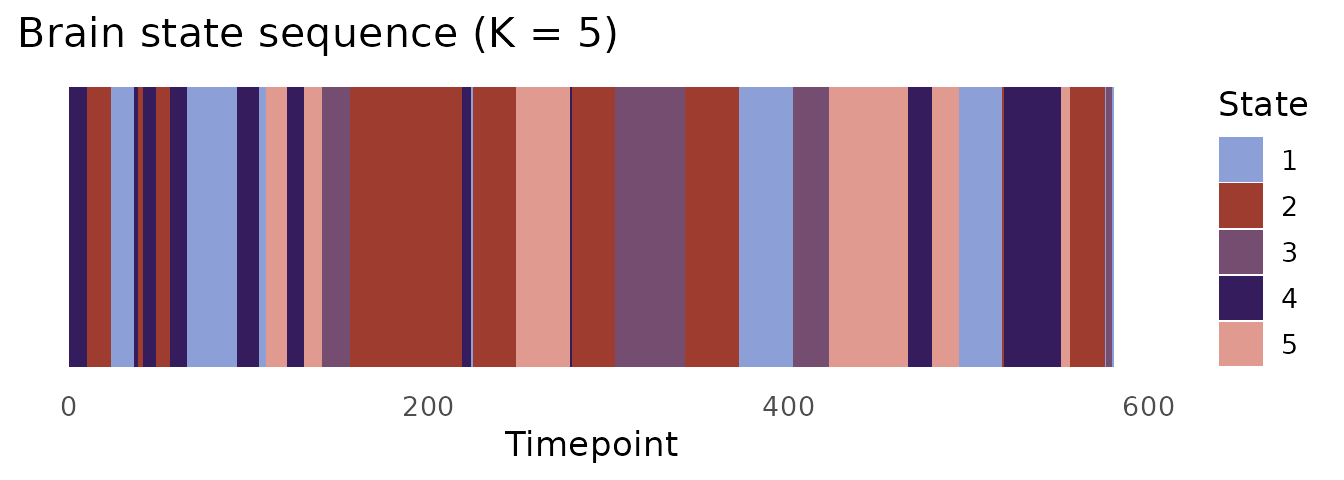
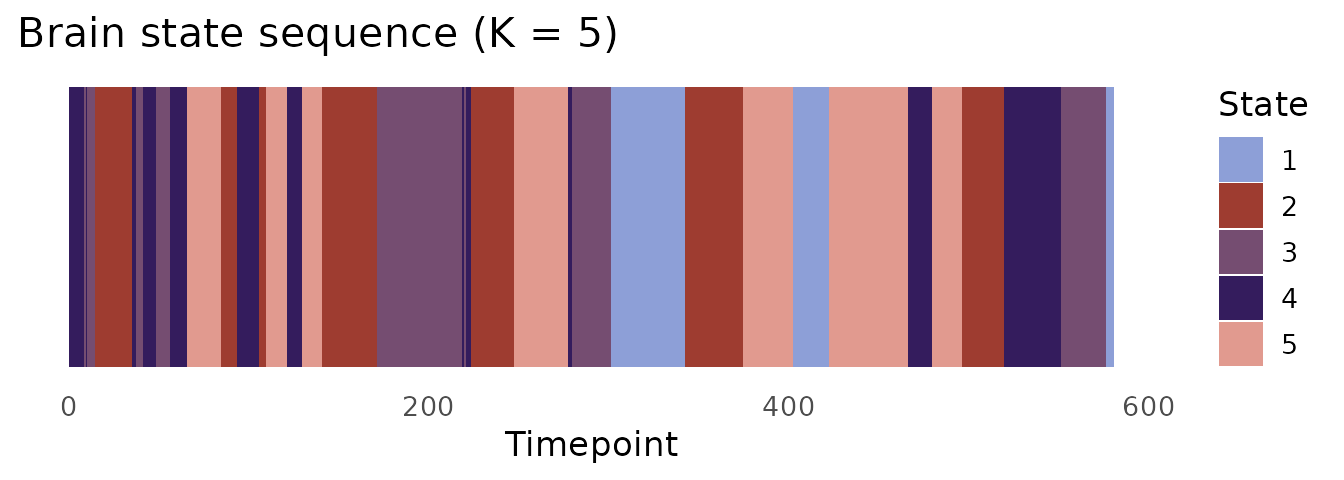
Deploying to gh-pages from @ circadia-bio/dynR@5a6e323ed052da99dbb9ac9269820ef5321b185b 🚀

diff --git a/articles/phase-based-fc.html b/articles/phase-based-fc.html
@@ -109,7 +109,7 @@
 
     <a class="navbar-brand me-2" href="../index.html">dynR</a>
 
-    <small class="nav-text text-muted me-auto" data-bs-toggle="tooltip" data-bs-placement="bottom" title="">0.1.0</small>
+    <small class="nav-text text-muted me-auto" data-bs-toggle="tooltip" data-bs-placement="bottom" title="">0.1.1</small>
 
 
     <button class="navbar-toggler" type="button" data-bs-toggle="collapse" data-bs-target="#navbar" aria-controls="navbar" aria-expanded="false" aria-label="Toggle navigation">
@@ -150,7 +150,7 @@
       <img src="../logo.svg" class="logo" alt=""><h1>Phase-based dynamic FC: Hilbert transform, LEiDA, and Kuramoto</h1>
             
       
-      <small class="dont-index">Source: <a href="https://github.com/circadia-bio/dynR/blob/v0.1.0/vignettes/phase-based-fc.Rmd" class="external-link"><code>vignettes/phase-based-fc.Rmd</code></a></small>
+      <small class="dont-index">Source: <a href="https://github.com/circadia-bio/dynR/blob/main/vignettes/phase-based-fc.Rmd" class="external-link"><code>vignettes/phase-based-fc.Rmd</code></a></small>
       <div class="d-none name"><code>phase-based-fc.Rmd</code></div>
     </div>
 
@@ -245,7 +245,7 @@ argument gives the instantaneous phase angle at every timepoint.</p>
 <span><span class="fu"><a href="https://rdrr.io/r/base/dim.html" class="external-link">dim</a></span><span class="op">(</span><span class="va">phases</span><span class="op">)</span>    <span class="co"># [200 × 600]</span></span>
 <span><span class="co">#&gt; [1] 200 600</span></span>
 <span><span class="fu"><a href="https://rdrr.io/r/base/range.html" class="external-link">range</a></span><span class="op">(</span><span class="va">phases</span><span class="op">)</span>  <span class="co"># in [-pi, pi]</span></span>
-<span><span class="co">#&gt; [1] -3.141541  3.141524</span></span></code></pre></div>
+<span><span class="co">#&gt; [1] -3.141479  3.141498</span></span></code></pre></div>
 <p>Each row is a parcel; each column is a timepoint. Values are in
 radians.</p>
 <hr>
@@ -318,7 +318,7 @@ and keeping the best solution is essential.</p>
 <span><span class="fu"><a href="https://rdrr.io/r/base/table.html" class="external-link">table</a></span><span class="op">(</span><span class="va">km</span><span class="op">$</span><span class="va">cluster</span><span class="op">)</span></span>
 <span><span class="co">#&gt; </span></span>
 <span><span class="co">#&gt;   1   2   3   4   5 </span></span>
-<span><span class="co">#&gt; 102 184  78 100 116</span></span></code></pre></div>
+<span><span class="co">#&gt;  65 144 112  98 161</span></span></code></pre></div>
 </div>
 <div class="section level3">
 <h3 id="state-sequence">State sequence<a class="anchor" aria-label="anchor" href="#state-sequence"></a>
@@ -382,9 +382,9 @@ repertoire (Lord et al., 2019).</p>
 <code class="sourceCode R"><span><span class="va">kop</span> <span class="op">&lt;-</span> <span class="fu"><a href="../reference/kuramoto.html">kuramoto</a></span><span class="op">(</span><span class="va">phases</span>, base <span class="op">=</span> <span class="fl">2</span>, n_bits <span class="op">=</span> <span class="fl">8</span><span class="op">)</span></span>
 <span></span>
 <span><span class="fu"><a href="https://rdrr.io/r/base/cat.html" class="external-link">cat</a></span><span class="op">(</span><span class="st">"Metastability:"</span>, <span class="fu"><a href="https://rdrr.io/r/base/Round.html" class="external-link">round</a></span><span class="op">(</span><span class="va">kop</span><span class="op">$</span><span class="va">metastability</span>, <span class="fl">4</span><span class="op">)</span>, <span class="st">"\n"</span><span class="op">)</span></span>
-<span><span class="co">#&gt; Metastability: 0.0787</span></span>
+<span><span class="co">#&gt; Metastability: 0.0788</span></span>
 <span><span class="fu"><a href="https://rdrr.io/r/base/cat.html" class="external-link">cat</a></span><span class="op">(</span><span class="st">"Entropy (bits):"</span>, <span class="fu"><a href="https://rdrr.io/r/base/Round.html" class="external-link">round</a></span><span class="op">(</span><span class="va">kop</span><span class="op">$</span><span class="va">entropy</span>, <span class="fl">4</span><span class="op">)</span>, <span class="st">"\n"</span><span class="op">)</span></span>
-<span><span class="co">#&gt; Entropy (bits): 6.1409</span></span></code></pre></div>
+<span><span class="co">#&gt; Entropy (bits): 6.1722</span></span></code></pre></div>
 <div class="sourceCode" id="cb8"><pre class="downlit sourceCode r">
 <code class="sourceCode R"><span><span class="va">df_kop</span> <span class="op">&lt;-</span> <span class="fu"><a href="https://rdrr.io/r/base/data.frame.html" class="external-link">data.frame</a></span><span class="op">(</span>t <span class="op">=</span> <span class="fu"><a href="https://rdrr.io/r/base/seq.html" class="external-link">seq_along</a></span><span class="op">(</span><span class="va">kop</span><span class="op">$</span><span class="va">synchrony</span><span class="op">)</span>, R <span class="op">=</span> <span class="va">kop</span><span class="op">$</span><span class="va">synchrony</span><span class="op">)</span></span>
 <span></span>

diff --git a/authors.html b/authors.html
@@ -88,7 +88,7 @@
 
     <a class="navbar-brand me-2" href="index.html">dynR</a>
 
-    <small class="nav-text text-muted me-auto" data-bs-toggle="tooltip" data-bs-placement="bottom" title="">0.1.0</small>
+    <small class="nav-text text-muted me-auto" data-bs-toggle="tooltip" data-bs-placement="bottom" title="">0.1.1</small>
 
 
     <button class="navbar-toggler" type="button" data-bs-toggle="collapse" data-bs-target="#navbar" aria-controls="navbar" aria-expanded="false" aria-label="Toggle navigation">
@@ -137,17 +137,17 @@
 
     <div class="section level2">
       <h2 id="citation">Citation</h2>
-      <p><small class="dont-index">Source: <a href="https://github.com/circadia-bio/dynR/blob/v0.1.0/DESCRIPTION" class="external-link"><code>DESCRIPTION</code></a></small></p>
+      <p><small class="dont-index">Source: <a href="https://github.com/circadia-bio/dynR/blob/main/DESCRIPTION" class="external-link"><code>DESCRIPTION</code></a></small></p>
 
       <p>França L, Leocadio-Miguel M, Batallé D (2026).
 <em>dynR: Dynamic Connectivity Analysis for Neurophysiological Timeseries</em>.
-R package version 0.1.0, <a href="https://dynr.circadia-lab.uk">https://dynr.circadia-lab.uk</a>.
+R package version 0.1.1, <a href="https://dynr.circadia-lab.uk">https://dynr.circadia-lab.uk</a>.
 </p>
       <pre>@Manual{,
   title = {dynR: Dynamic Connectivity Analysis for Neurophysiological Timeseries},
   author = {Lucas França and Mario Leocadio-Miguel and Dafnis Batallé},
   year = {2026},
-  note = {R package version 0.1.0},
+  note = {R package version 0.1.1},
   url = {https://dynr.circadia-lab.uk},
 }</pre>
     </div>

diff --git a/LICENSE.html b/LICENSE.html
@@ -88,7 +88,7 @@
 
     <a class="navbar-brand me-2" href="index.html">dynR</a>
 
-    <small class="nav-text text-muted me-auto" data-bs-toggle="tooltip" data-bs-placement="bottom" title="">0.1.0</small>
+    <small class="nav-text text-muted me-auto" data-bs-toggle="tooltip" data-bs-placement="bottom" title="">0.1.1</small>
 
 
     <button class="navbar-toggler" type="button" data-bs-toggle="collapse" data-bs-target="#navbar" aria-controls="navbar" aria-expanded="false" aria-label="Toggle navigation">
@@ -116,7 +116,7 @@
 <div class="row">
   <main id="main" class="col-md-9"><div class="page-header">
       <img src="logo.svg" class="logo" alt=""><h1>MIT License</h1>
-      <small class="dont-index">Source: <a href="https://github.com/circadia-bio/dynR/blob/v0.1.0/LICENSE.md" class="external-link"><code>LICENSE.md</code></a></small>
+      <small class="dont-index">Source: <a href="https://github.com/circadia-bio/dynR/blob/main/LICENSE.md" class="external-link"><code>LICENSE.md</code></a></small>
     </div>
 
 <div id="mit-license" class="section level1">

diff --git a/articles/getting-started.html b/articles/getting-started.html
@@ -109,7 +109,7 @@
 
     <a class="navbar-brand me-2" href="../index.html">dynR</a>
 
-    <small class="nav-text text-muted me-auto" data-bs-toggle="tooltip" data-bs-placement="bottom" title="">0.1.0</small>
+    <small class="nav-text text-muted me-auto" data-bs-toggle="tooltip" data-bs-placement="bottom" title="">0.1.1</small>
 
 
     <button class="navbar-toggler" type="button" data-bs-toggle="collapse" data-bs-target="#navbar" aria-controls="navbar" aria-expanded="false" aria-label="Toggle navigation">
@@ -150,7 +150,7 @@
       <img src="../logo.svg" class="logo" alt=""><h1>Getting started with dynR</h1>
             
       
-      <small class="dont-index">Source: <a href="https://github.com/circadia-bio/dynR/blob/v0.1.0/vignettes/getting-started.Rmd" class="external-link"><code>vignettes/getting-started.Rmd</code></a></small>
+      <small class="dont-index">Source: <a href="https://github.com/circadia-bio/dynR/blob/main/vignettes/getting-started.Rmd" class="external-link"><code>vignettes/getting-started.Rmd</code></a></small>
       <div class="d-none name"><code>getting-started.Rmd</code></div>
     </div>
 

diff --git a/articles/sliding-window-fc.html b/articles/sliding-window-fc.html
@@ -109,7 +109,7 @@
 
     <a class="navbar-brand me-2" href="../index.html">dynR</a>
 
-    <small class="nav-text text-muted me-auto" data-bs-toggle="tooltip" data-bs-placement="bottom" title="">0.1.0</small>
+    <small class="nav-text text-muted me-auto" data-bs-toggle="tooltip" data-bs-placement="bottom" title="">0.1.1</small>
 
 
     <button class="navbar-toggler" type="button" data-bs-toggle="collapse" data-bs-target="#navbar" aria-controls="navbar" aria-expanded="false" aria-label="Toggle navigation">
@@ -150,7 +150,7 @@
       <img src="../logo.svg" class="logo" alt=""><h1>Correlation-based dynamic FC: sliding windows and edge cofluctuations</h1>
             
       
-      <small class="dont-index">Source: <a href="https://github.com/circadia-bio/dynR/blob/v0.1.0/vignettes/sliding-window-fc.Rmd" class="external-link"><code>vignettes/sliding-window-fc.Rmd</code></a></small>
+      <small class="dont-index">Source: <a href="https://github.com/circadia-bio/dynR/blob/main/vignettes/sliding-window-fc.Rmd" class="external-link"><code>vignettes/sliding-window-fc.Rmd</code></a></small>
       <div class="d-none name"><code>sliding-window-fc.Rmd</code></div>
     </div>
 

diff --git a/news/index.html b/news/index.html
@@ -88,7 +88,7 @@
 
     <a class="navbar-brand me-2" href="../index.html">dynR</a>
 
-    <small class="nav-text text-muted me-auto" data-bs-toggle="tooltip" data-bs-placement="bottom" title="">0.1.0</small>
+    <small class="nav-text text-muted me-auto" data-bs-toggle="tooltip" data-bs-placement="bottom" title="">0.1.1</small>
 
 
     <button class="navbar-toggler" type="button" data-bs-toggle="collapse" data-bs-target="#navbar" aria-controls="navbar" aria-expanded="false" aria-label="Toggle navigation">
@@ -116,7 +116,7 @@
 <div class="row">
   <main id="main" class="col-md-9"><div class="page-header">
       <img src="../logo.svg" class="logo" alt=""><h1>Changelog</h1>
-      <small>Source: <a href="https://github.com/circadia-bio/dynR/blob/v0.1.0/NEWS.md" class="external-link"><code>NEWS.md</code></a></small>
+      <small>Source: <a href="https://github.com/circadia-bio/dynR/blob/main/NEWS.md" class="external-link"><code>NEWS.md</code></a></small>
     </div>
 
   </main></div>

diff --git a/reference/bandpass_filter.html b/reference/bandpass_filter.html
@@ -90,7 +90,7 @@ Wraps gsignal::butter() and gsignal::filtfilt() for convenience."><meta property
 
     <a class="navbar-brand me-2" href="../index.html">dynR</a>
 
-    <small class="nav-text text-muted me-auto" data-bs-toggle="tooltip" data-bs-placement="bottom" title="">0.1.0</small>
+    <small class="nav-text text-muted me-auto" data-bs-toggle="tooltip" data-bs-placement="bottom" title="">0.1.1</small>
 
 
     <button class="navbar-toggler" type="button" data-bs-toggle="collapse" data-bs-target="#navbar" aria-controls="navbar" aria-expanded="false" aria-label="Toggle navigation">
@@ -118,7 +118,7 @@ Wraps gsignal::butter() and gsignal::filtfilt() for convenience."><meta property
 <div class="row">
   <main id="main" class="col-md-9"><div class="page-header">
       <img src="../logo.svg" class="logo" alt=""><h1>Butterworth bandpass filter</h1>
-      <small class="dont-index">Source: <a href="https://github.com/circadia-bio/dynR/blob/v0.1.0/R/bandpass_filter.R" class="external-link"><code>R/bandpass_filter.R</code></a></small>
+      <small class="dont-index">Source: <a href="https://github.com/circadia-bio/dynR/blob/main/R/bandpass_filter.R" class="external-link"><code>R/bandpass_filter.R</code></a></small>
       <div class="d-none name"><code>bandpass_filter.Rd</code></div>
     </div>
 

diff --git a/reference/cofluct.html b/reference/cofluct.html
@@ -92,7 +92,7 @@ Esfahlani et al. (2020) and Faskowitz et al. (2020)."><meta property="og:image" 
 
     <a class="navbar-brand me-2" href="../index.html">dynR</a>
 
-    <small class="nav-text text-muted me-auto" data-bs-toggle="tooltip" data-bs-placement="bottom" title="">0.1.0</small>
+    <small class="nav-text text-muted me-auto" data-bs-toggle="tooltip" data-bs-placement="bottom" title="">0.1.1</small>
 
 
     <button class="navbar-toggler" type="button" data-bs-toggle="collapse" data-bs-target="#navbar" aria-controls="navbar" aria-expanded="false" aria-label="Toggle navigation">
@@ -120,7 +120,7 @@ Esfahlani et al. (2020) and Faskowitz et al. (2020)."><meta property="og:image" 
 <div class="row">
   <main id="main" class="col-md-9"><div class="page-header">
       <img src="../logo.svg" class="logo" alt=""><h1>Edge-centric cofluctuation analysis</h1>
-      <small class="dont-index">Source: <a href="https://github.com/circadia-bio/dynR/blob/v0.1.0/R/cofluct.R" class="external-link"><code>R/cofluct.R</code></a></small>
+      <small class="dont-index">Source: <a href="https://github.com/circadia-bio/dynR/blob/main/R/cofluct.R" class="external-link"><code>R/cofluct.R</code></a></small>
       <div class="d-none name"><code>cofluct.Rd</code></div>
     </div>
 

diff --git a/reference/corr_corr.html b/reference/corr_corr.html
@@ -92,7 +92,7 @@ producing a [Tmax × Tmax] "correlation of correlations" matrix
 
     <a class="navbar-brand me-2" href="../index.html">dynR</a>
 
-    <small class="nav-text text-muted me-auto" data-bs-toggle="tooltip" data-bs-placement="bottom" title="">0.1.0</small>
+    <small class="nav-text text-muted me-auto" data-bs-toggle="tooltip" data-bs-placement="bottom" title="">0.1.1</small>
 
 
     <button class="navbar-toggler" type="button" data-bs-toggle="collapse" data-bs-target="#navbar" aria-controls="navbar" aria-expanded="false" aria-label="Toggle navigation">
@@ -120,7 +120,7 @@ producing a [Tmax × Tmax] "correlation of correlations" matrix
 <div class="row">
   <main id="main" class="col-md-9"><div class="page-header">
       <img src="../logo.svg" class="logo" alt=""><h1>Correlation of correlations matrix</h1>
-      <small class="dont-index">Source: <a href="https://github.com/circadia-bio/dynR/blob/v0.1.0/R/cofluct.R" class="external-link"><code>R/cofluct.R</code></a></small>
+      <small class="dont-index">Source: <a href="https://github.com/circadia-bio/dynR/blob/main/R/cofluct.R" class="external-link"><code>R/cofluct.R</code></a></small>
       <div class="d-none name"><code>corr_corr.Rd</code></div>
     </div>
 

diff --git a/reference/corr_slide.html b/reference/corr_slide.html
@@ -90,7 +90,7 @@ timeseries (Hansen et al., 2015)."><meta property="og:image" content="https://dy
 
     <a class="navbar-brand me-2" href="../index.html">dynR</a>
 
-    <small class="nav-text text-muted me-auto" data-bs-toggle="tooltip" data-bs-placement="bottom" title="">0.1.0</small>
+    <small class="nav-text text-muted me-auto" data-bs-toggle="tooltip" data-bs-placement="bottom" title="">0.1.1</small>
 
 
     <button class="navbar-toggler" type="button" data-bs-toggle="collapse" data-bs-target="#navbar" aria-controls="navbar" aria-expanded="false" aria-label="Toggle navigation">
@@ -118,7 +118,7 @@ timeseries (Hansen et al., 2015)."><meta property="og:image" content="https://dy
 <div class="row">
   <main id="main" class="col-md-9"><div class="page-header">
       <img src="../logo.svg" class="logo" alt=""><h1>Sliding window correlation</h1>
-      <small class="dont-index">Source: <a href="https://github.com/circadia-bio/dynR/blob/v0.1.0/R/corr_slide.R" class="external-link"><code>R/corr_slide.R</code></a></small>
+      <small class="dont-index">Source: <a href="https://github.com/circadia-bio/dynR/blob/main/R/corr_slide.R" class="external-link"><code>R/corr_slide.R</code></a></small>
       <div class="d-none name"><code>corr_slide.Rd</code></div>
     </div>
 

diff --git a/reference/do_euclid.html b/reference/do_euclid.html
@@ -90,7 +90,7 @@ matrix — typically a trajectory through PC space."><meta property="og:image" c
 
     <a class="navbar-brand me-2" href="../index.html">dynR</a>
 
-    <small class="nav-text text-muted me-auto" data-bs-toggle="tooltip" data-bs-placement="bottom" title="">0.1.0</small>
+    <small class="nav-text text-muted me-auto" data-bs-toggle="tooltip" data-bs-placement="bottom" title="">0.1.1</small>
 
 
     <button class="navbar-toggler" type="button" data-bs-toggle="collapse" data-bs-target="#navbar" aria-controls="navbar" aria-expanded="false" aria-label="Toggle navigation">
@@ -118,7 +118,7 @@ matrix — typically a trajectory through PC space."><meta property="og:image" c
 <div class="row">
   <main id="main" class="col-md-9"><div class="page-header">
       <img src="../logo.svg" class="logo" alt=""><h1>Euclidean distance between consecutive points</h1>
-      <small class="dont-index">Source: <a href="https://github.com/circadia-bio/dynR/blob/v0.1.0/R/euclid.R" class="external-link"><code>R/euclid.R</code></a></small>
+      <small class="dont-index">Source: <a href="https://github.com/circadia-bio/dynR/blob/main/R/euclid.R" class="external-link"><code>R/euclid.R</code></a></small>
       <div class="d-none name"><code>do_euclid.Rd</code></div>
     </div>
 

diff --git a/reference/dyn_phase_lock.html b/reference/dyn_phase_lock.html
@@ -94,7 +94,7 @@ transform."><meta property="og:image" content="https://dynr.circadia-lab.uk/logo
 
     <a class="navbar-brand me-2" href="../index.html">dynR</a>
 
-    <small class="nav-text text-muted me-auto" data-bs-toggle="tooltip" data-bs-placement="bottom" title="">0.1.0</small>
+    <small class="nav-text text-muted me-auto" data-bs-toggle="tooltip" data-bs-placement="bottom" title="">0.1.1</small>
 
 
     <button class="navbar-toggler" type="button" data-bs-toggle="collapse" data-bs-target="#navbar" aria-controls="navbar" aria-expanded="false" aria-label="Toggle navigation">
@@ -122,7 +122,7 @@ transform."><meta property="og:image" content="https://dynr.circadia-lab.uk/logo
 <div class="row">
   <main id="main" class="col-md-9"><div class="page-header">
       <img src="../logo.svg" class="logo" alt=""><h1>Dynamic phase-locking matrix (dPL)</h1>
-      <small class="dont-index">Source: <a href="https://github.com/circadia-bio/dynR/blob/v0.1.0/R/dyn_phase_lock.R" class="external-link"><code>R/dyn_phase_lock.R</code></a></small>
+      <small class="dont-index">Source: <a href="https://github.com/circadia-bio/dynR/blob/main/R/dyn_phase_lock.R" class="external-link"><code>R/dyn_phase_lock.R</code></a></small>
       <div class="d-none name"><code>dyn_phase_lock.Rd</code></div>
     </div>
 